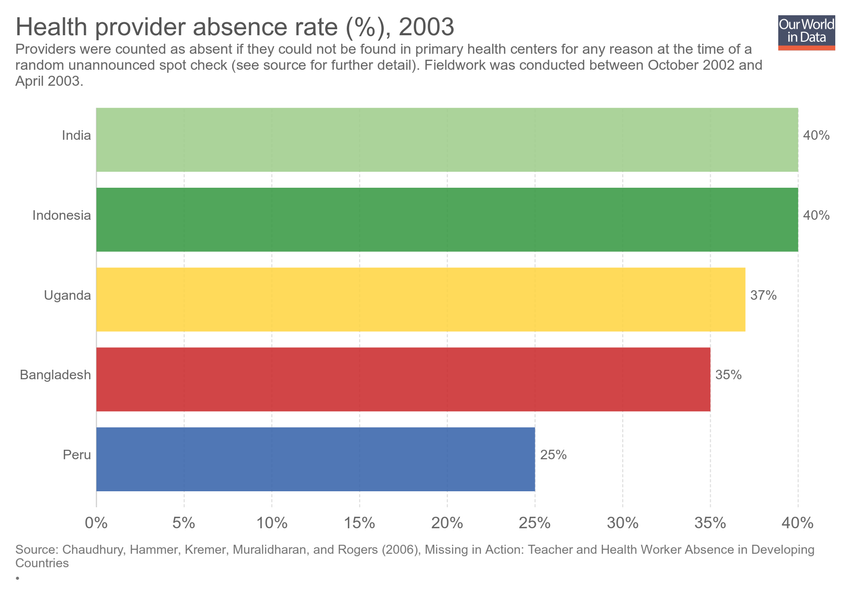
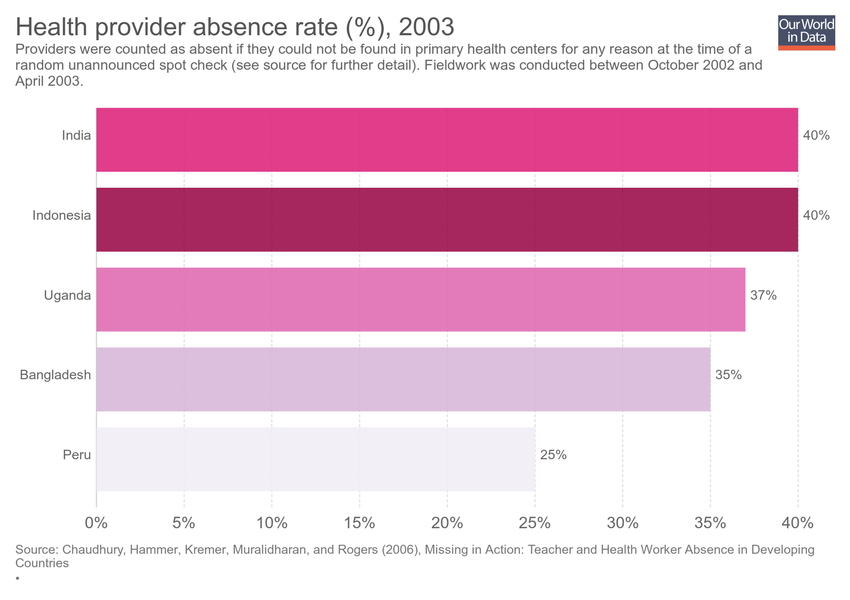
Updating chart health-provider-absence-rate

diff --git a/grapher/health-provider-absence-rate.html b/grapher/health-provider-absence-rate.html
@@ -1,4 +1,4 @@
-<!doctype html><html><head><meta name="viewport" content="width=device-width, initial-scale=1" /><title>Health provider absence rate (%) - Our World in Data</title><meta name="description" content="Providers were counted as absent if they could not be found in primary health centers for any reason at the time of a random unannounced spot check (see source for further detail). Fieldwork was conducted between October 2002 and April 2003." /><link rel="canonical" href="https://ourworldindata.org/grapher/health-provider-absence-rate" /><meta property="fb:app_id" content="1149943818390250" /><meta property="og:url" content="https://ourworldindata.org/grapher/health-provider-absence-rate" /><meta property="og:title" content="Health provider absence rate (%)" /><meta property="og:description" content="Providers were counted as absent if they could not be found in primary health centers for any reason at the time of a random unannounced spot check (see source for further detail). Fieldwork was conducted between October 2002 and April 2003." /><meta property="og:image" content="https://ourworldindata.org/grapher/exports/health-provider-absence-rate.png?v=1" /><meta property="og:image:width" content="850" /><meta property="og:image:height" content="600" /><meta property="og:site_name" content="Our World in Data" /><meta name="twitter:card" content="summary_large_image" /><meta name="twitter:site" content="@OurWorldInData" /><meta name="twitter:creator" content="@OurWorldInData" /><meta name="twitter:title" content="Health provider absence rate (%)" /><meta name="twitter:description" content="Providers were counted as absent if they could not be found in primary health centers for any reason at the time of a random unannounced spot check (see source for further detail). Fieldwork was conducted between October 2002 and April 2003." /><meta name="twitter:image" content="https://ourworldindata.org/grapher/exports/health-provider-absence-rate.png?v=1" /><style>
+<!doctype html><html><head><meta name="viewport" content="width=device-width, initial-scale=1" /><title>Health provider absence rate (%) - Our World in Data</title><meta name="description" content="Providers were counted as absent if they could not be found in primary health centers for any reason at the time of a random unannounced spot check (see source for further detail). Fieldwork was conducted between October 2002 and April 2003." /><link rel="canonical" href="https://ourworldindata.org/grapher/health-provider-absence-rate" /><meta property="fb:app_id" content="1149943818390250" /><meta property="og:url" content="https://ourworldindata.org/grapher/health-provider-absence-rate" /><meta property="og:title" content="Health provider absence rate (%)" /><meta property="og:description" content="Providers were counted as absent if they could not be found in primary health centers for any reason at the time of a random unannounced spot check (see source for further detail). Fieldwork was conducted between October 2002 and April 2003." /><meta property="og:image" content="https://ourworldindata.org/grapher/exports/health-provider-absence-rate.png?v=3" /><meta property="og:image:width" content="850" /><meta property="og:image:height" content="600" /><meta property="og:site_name" content="Our World in Data" /><meta name="twitter:card" content="summary_large_image" /><meta name="twitter:site" content="@OurWorldInData" /><meta name="twitter:creator" content="@OurWorldInData" /><meta name="twitter:title" content="Health provider absence rate (%)" /><meta name="twitter:description" content="Providers were counted as absent if they could not be found in primary health centers for any reason at the time of a random unannounced spot check (see source for further detail). Fieldwork was conducted between October 2002 and April 2003." /><meta name="twitter:image" content="https://ourworldindata.org/grapher/exports/health-provider-absence-rate.png?v=3" /><style>
         html, body {
             height: 100%;
             margin: 0;
@@ -20,8 +20,8 @@
         }
     </style><noscript><style>
                     figure { display: none !important; }
-                </style></noscript><link rel="stylesheet" href="https://ourworldindata.org/grapher/assets/commons.bundle.dcbbe53805c487d5e57617b10ac73a8a.css" /><link rel="preload" href="/grapher/data/variables/97481.json?v=1" as="fetch" crossorigin /></head><body class="singleChart"><figure data-grapher-src="/grapher/health-provider-absence-rate"></figure><noscript id="fallback"><img src="/grapher/exports/health-provider-absence-rate.svg" /><p>Interactive visualization requires JavaScript</p></noscript><script src="https://cdn.polyfill.io/v2/polyfill.min.js?features=es6,fetch"></script><script src="https://ourworldindata.org/grapher/assets/commons.bundle.db4e4065dcbf33bcd3d7.js"></script><script src="https://ourworldindata.org/grapher/assets/charts.bundle.db4e4065dcbf33bcd3d7.js"></script><script>
-        var jsonConfig = {"map":{"projection":"World","colorSchemeLabels":[],"colorSchemeValues":[],"customNumericColors":[],"customCategoryColors":{},"customCategoryLabels":{},"customHiddenCategories":{}},"tab":"chart","slug":"health-provider-absence-rate","type":"DiscreteBar","title":"Health provider absence rate (%)","xAxis":{"scaleType":"linear"},"yAxis":{"min":0,"scaleType":"linear"},"version":1,"subtitle":"Providers were counted as absent if they could not be found in primary health centers for any reason at the time of a random unannounced spot check (see source for further detail). Fieldwork was conducted between October 2002 and April 2003.","hasMapTab":false,"stackMode":"absolute","dimensions":[{"display":{},"property":"y","variableId":97481}],"isAutoSlug":true,"hasChartTab":true,"isPublished":true,"selectedData":[{"index":0,"entityId":28},{"index":0,"entityId":137},{"index":0,"entityId":136},{"index":0,"entityId":97},{"index":0,"entityId":68}],"addCountryMode":"disabled","baseColorScheme":"stackedAreaDefault","id":2685};
+                </style></noscript><link rel="stylesheet" href="https://ourworldindata.org/grapher/assets/commons.bundle.dcbbe53805c487d5e57617b10ac73a8a.css" /><link rel="preload" href="/grapher/data/variables/97481.json?v=3" as="fetch" crossorigin /></head><body class="singleChart"><figure data-grapher-src="/grapher/health-provider-absence-rate"></figure><noscript id="fallback"><img src="/grapher/exports/health-provider-absence-rate.svg" /><p>Interactive visualization requires JavaScript</p></noscript><script src="https://cdn.polyfill.io/v2/polyfill.min.js?features=es6,fetch"></script><script src="https://ourworldindata.org/grapher/assets/commons.bundle.db4e4065dcbf33bcd3d7.js"></script><script src="https://ourworldindata.org/grapher/assets/charts.bundle.db4e4065dcbf33bcd3d7.js"></script><script>
+        var jsonConfig = {"id":2685,"map":{"projection":"World","colorSchemeLabels":[],"colorSchemeValues":[],"customNumericColors":[],"customCategoryColors":{},"customCategoryLabels":{},"customHiddenCategories":{}},"tab":"chart","slug":"health-provider-absence-rate","type":"DiscreteBar","title":"Health provider absence rate (%)","xAxis":{"scaleType":"linear"},"yAxis":{"min":0,"scaleType":"linear"},"version":3,"subtitle":"Providers were counted as absent if they could not be found in primary health centers for any reason at the time of a random unannounced spot check (see source for further detail). Fieldwork was conducted between October 2002 and April 2003.","hasMapTab":false,"stackMode":"absolute","dimensions":[{"display":{},"property":"y","variableId":97481}],"hasChartTab":true,"isPublished":true,"selectedData":[{"index":0,"entityId":28},{"index":0,"entityId":137},{"index":0,"entityId":136},{"index":0,"entityId":97},{"index":0,"entityId":68}],"addCountryMode":"disabled","baseColorScheme":"PuRd"};
         var figure = document.getElementsByTagName("figure")[0];
         try {
             window.App = {};
